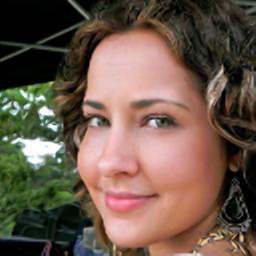
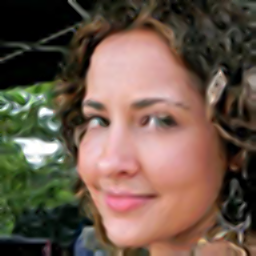
Eliminate edge white points

diff --git a/python/DCC.py b/python/DCC.py
@@ -1,11 +1,4 @@
 import numpy as np
-from PIL import Image
-import argparse
-import multiprocessing
-from functools import partial
-from tqdm import tqdm
-import os
-from pathlib import Path
 def DetectDirect(A, type, k, T):
     if type == 1:
         # 45 degree diagonal direction
@@ -62,33 +55,47 @@ def PixelValue(A, type, w, n, f):
         p = (w[0]*p1+w[1]*p2)/(w[0]+w[1])
     return p
 
-def padding(img, H, W):
-    zimg = np.zeros((H+6,W+6))
-    zimg[3:H+3,3:W+3] = img
-    #Pad the first/last three col and row
-    zimg[3:H+3,1]=img[:,0]
-    zimg[H+3::2,3:W+3]=img[H-2:H-1,:]
-    zimg[3:H+3,W+3::2]=img[:,W-2:W-1]
-    zimg[1,3:W+3]=img[0,:]
-    #Pad the missing nine points
-    zimg[1,1]=img[0,0]
-    zimg[H+3::2,1]=img[H-2,0]
-    zimg[H+3::2,W+3::2]=img[H-2,W-2]
-    zimg[1,W+3::2]=img[0,W-2]
-    return zimg
+def PadLeftTop(img_pad, H, W):
+    img = img_pad[3:-3,3:-3]
+    # Pad the first/last three col and row
+    img_pad[3:H+3,1]=img[:,0]
+    img_pad[H+3::2,3:W+3]=img[H-2:H-1,:]
+    img_pad[3:H+3,W+3::2]=img[:,W-2:W-1]
+    img_pad[1,3:W+3]=img[0,:]
+    # Pad the missing nine points
+    img_pad[1,1]=img[0,0]
+    img_pad[H+3::2,1]=img[H-2,0]
+    img_pad[H+3::2,W+3::2]=img[H-2,W-2]
+    img_pad[1,W+3::2]=img[0,W-2]
+    return img_pad
+
+def PadRightBottom(img_pad, H, W):
+    img = img_pad[3:-3,3:-3]
+    # Pad the first/last three col and row
+    img_pad[3:H+3,0:3:2]=img[:,1:2]
+    img_pad[H+4::2,3:W+3]=img[H-1:H,:]
+    img_pad[3:H+3,W+4::2]=img[:,W-1:W]
+    img_pad[0:3:2,3:W+3]=img[1,:]
+    # Pad the missing nine points
+    img_pad[0:3:2,0:3:2]=img[1,1]
+    img_pad[H+4,0:3:2]=img[H-1,1]
+    img_pad[H+4,W+4]=img[H-1,W-1]
+    img_pad[0:3:2,W+4]=img[0,W-1]
+    return img_pad
 
 def _DCC(I, k, T):
     m, n = I.shape
     nRow = 2*m
     nCol = 2*n
-    A = np.zeros([nRow, nCol])
-    A[0:-1:2, 0:-1:2] = I
-    A = padding(A, nRow, nCol)
+    A = np.zeros([nRow+6, nCol+6])
+    A[0+3:-1-3:2, 0+3:-1-3:2] = I
+    A = PadLeftTop(A, nRow, nCol)
     f = np.array([-1, 9, 9, -1])/16
     for i in range(4,nRow+3,2):
         for j in range(4,nCol+3,2):
             [w,n] = DetectDirect(A[i-3:i+4,j-3:j+4],1,k,T)
             A[i,j] = PixelValue(A[i-3:i+4,j-3:j+4],1,w,n,f)
+    A = PadRightBottom(A, nRow, nCol)
     for i in range(3,nRow+3,2):
         for j in range(4,nCol+3,2):
             [w,n] = DetectDirect(A[i-2:i+3,j-2:j+3],2,k,T)
@@ -100,72 +107,22 @@ def _DCC(I, k, T):
     return A[3:-3,3:-3]                
     # return A 
 
-
-# uniform format image
-def numpy2img(img, out_type=np.uint8, min_max=(0, 1)):
-    img = img.clip(*min_max)  # clamp
-    img = (img - min_max[0]) / \
-        (min_max[1] - min_max[0])  # to range [0,1]
-    if out_type == np.uint8:
-        img_np = (img * 255.0).round()
-    return img_np.astype(out_type)
-
-# resize image by DCC algorithm
-def resize_worker(img_file, level):
-    # Image to numpy
-    img = Image.open(img_file).convert('RGB')
-    img = np.array(img).astype(np.float)
-    img = img/255
-    if img.ndim == 2:
-        img = np.expand_dims(img, axis=2)
-    # hyper parameters
+'''
+img: Shape[H,W,C], Value Range[0-1]
+level: super resolution level
+Return: super resolution img who shape is the same with input
+'''
+def DCC(img, level):
+    # get the low resolution image
     lr_img = img[0:-1:2**level, 0:-1:2**level, :]
+    # hyper parameters
     k, T = 5, 1.15
     sr_img = img
+    # get the high resolution image channel by channel
     for channel in range(lr_img.shape[-1]):
         sr_img_simple = lr_img[:,:,channel]
         for _ in range(level):
-            sr_img_simple  = _DCC(sr_img_simple , k, T)
+            sr_img_simple  = _DCC(sr_img_simple, k, T)
         sr_img[:,:,channel] = sr_img_simple
-    # return image names and processsd image
-    return img_file.name.split('.')[0], Image.fromarray(numpy2img(sr_img))
+    return sr_img
 
-def prepare(img_path, out_path, n_worker, level):
-    resize_fn = partial(resize_worker, level=level)
-
-    files = [p for p in Path(f'{img_path}').glob(f'**/*')]
-    os.makedirs(out_path, exist_ok=True)
-    total = 0
-    for img in tqdm(files):
-        i, img = resize_fn(img)
-        img.save(
-            '{}/{}_{}.png'.format(out_path, i.zfill(5), 'dcc_numpy'))
-        total += 1
-
-# multiprocessing support
-def prepare_mp(img_path, out_path, n_worker, level):
-    resize_fn = partial(resize_worker, level=level)
-
-    files = [p for p in Path(f'{img_path}').glob(f'**/*')]
-    os.makedirs(out_path, exist_ok=True)
-
-    total = 0
-    with multiprocessing.Pool(n_worker) as pool:
-        for i, img in tqdm(pool.imap_unordered(resize_fn, files)):
-            img.save(
-                '{}/{}_{}.png'.format(out_path, i.zfill(5), 'dcc_numpy'))
-            total += 1
-
-if __name__ == '__main__':
-    parser = argparse.ArgumentParser()
-    parser.add_argument('--path', '-p', type=str,
-                        default='./data/hr')
-    parser.add_argument('--out', '-o', type=str, default='./data/sr')
-
-    parser.add_argument('--level', type=int, default=1)
-    parser.add_argument('--n_worker', type=int, default=8)
-
-    args = parser.parse_args()
-    # args.out = '{}_{}_{}'.format(args.out, 'dcc_numpy', 2**args.level)
-
-    prepare(args.path, args.out, args.n_worker, level=args.level)

diff --git a/python/test_DCC.py b/python/test_DCC.py
@@ -1,0 +1,67 @@
+import numpy as np
+from PIL import Image
+import argparse
+import multiprocessing
+from functools import partial
+from tqdm import tqdm
+import os
+from pathlib import Path
+from DCC import DCC
+# uniform format image
+def numpy2img(img, out_type=np.uint8, min_max=(0, 1)):
+    img = img.clip(*min_max)  # clamp
+    img = (img - min_max[0]) / \
+        (min_max[1] - min_max[0])  # to range [0,1]
+    if out_type == np.uint8:
+        img_np = (img * 255.0).round()
+    return img_np.astype(out_type)
+
+# resize image by DCC algorithm
+def resize_worker(img_file, level):
+    # Image to numpy
+    img = Image.open(img_file).convert('RGB')
+    img = np.array(img).astype(np.float)
+    img = img/255
+    sr_img = DCC(img, level)
+    # return image names and processsd image
+    return img_file.name.split('.')[0], Image.fromarray(numpy2img(sr_img))
+
+def prepare(img_path, out_path, n_worker, level):
+    resize_fn = partial(resize_worker, level=level)
+
+    files = [p for p in Path(f'{img_path}').glob(f'**/*')]
+    os.makedirs(out_path, exist_ok=True)
+    total = 0
+    for img in tqdm(files):
+        i, img = resize_fn(img)
+        img.save(
+            '{}/{}_{}.png'.format(out_path, i.zfill(5), 'dcc_numpy'))
+        total += 1
+
+# multiprocessing support
+def prepare_mp(img_path, out_path, n_worker, level):
+    resize_fn = partial(resize_worker, level=level)
+
+    files = [p for p in Path(f'{img_path}').glob(f'**/*')]
+    os.makedirs(out_path, exist_ok=True)
+
+    total = 0
+    with multiprocessing.Pool(n_worker) as pool:
+        for i, img in tqdm(pool.imap_unordered(resize_fn, files)):
+            img.save(
+                '{}/{}_{}.png'.format(out_path, i.zfill(5), 'dcc_numpy'))
+            total += 1
+
+if __name__ == '__main__':
+    parser = argparse.ArgumentParser()
+    parser.add_argument('--path', '-p', type=str,
+                        default='./data/hr')
+    parser.add_argument('--out', '-o', type=str, default='./data/sr')
+
+    parser.add_argument('--level', type=int, default=2)
+    parser.add_argument('--n_worker', type=int, default=8)
+
+    args = parser.parse_args()
+    # args.out = '{}_{}_{}'.format(args.out, 'dcc_numpy', 2**args.level)
+
+    prepare(args.path, args.out, args.n_worker, level=args.level)

diff --git a/README.md b/README.md
@@ -17,8 +17,8 @@ Compared to the open source MATLAB version, we are ready to do the following :
 
 -   [x] Python Version
 -   [x] RGB Image support 
--   [x] MultiProcessing support
--   [ ] Eliminate edge white points
+-   [x] Multi Process support
+-   [x] Eliminate edge white points
 
 
 
@@ -34,7 +34,14 @@ Compared to the open source MATLAB version, we are ready to do the following :
 
 ###  Usage
 
-We have integrated the open source version of MATLAB and the manually implemented version of Python, which can be found in corresponding folder.
+We have integrated the open source version of MATLAB and the manually implemented version of Python, which can be found in corresponding folder. Take the python version for a example:
+
+```python
+from DCC import DCC
+img = Image.open(img_file).convert('RGB')
+img = np.array(img).astype(np.float)/255
+sr_img = DCC(img, level)
+```
 
 
 
